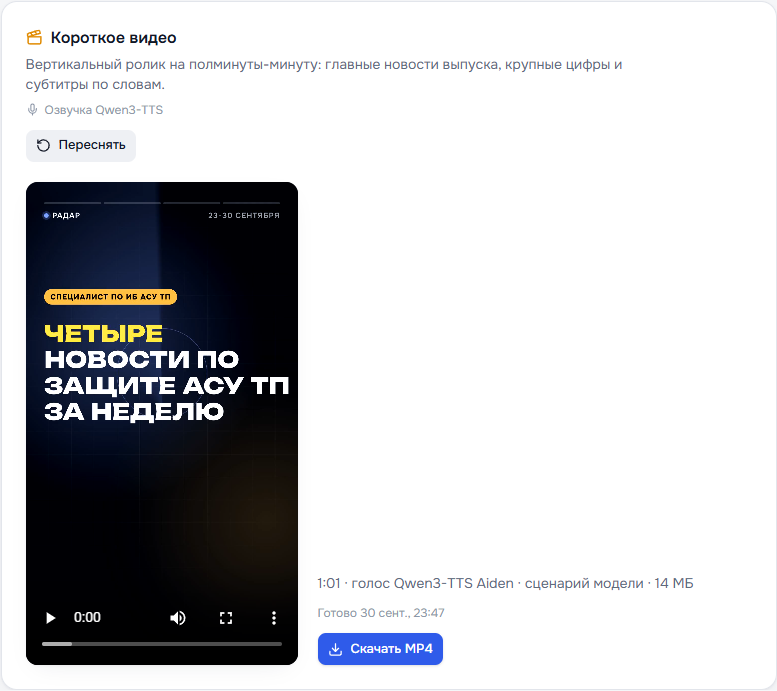
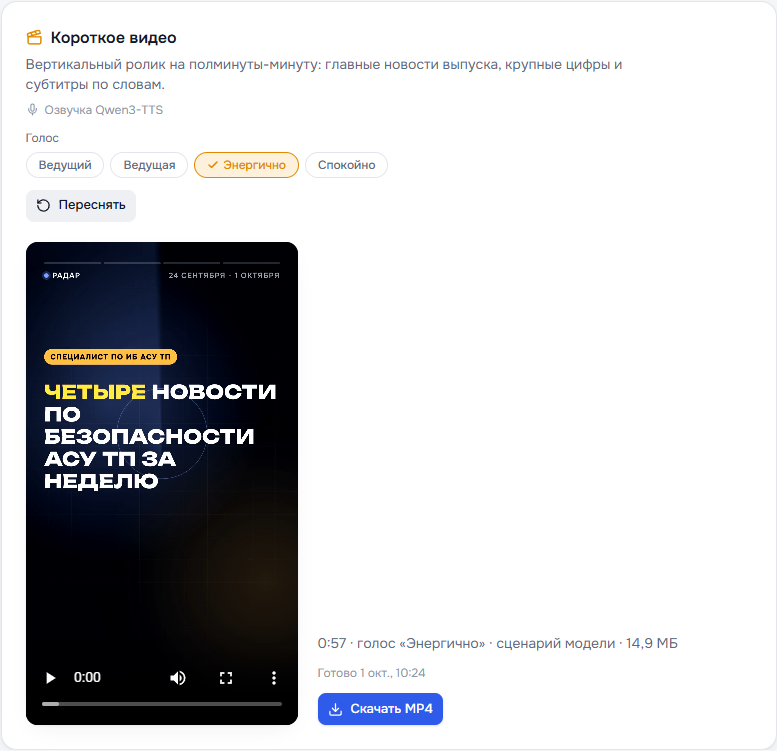
docs: voices, the line check and the news cards in the video

Changed region(s): [[0.0309, 0.0304, 0.8031, 0.6686], [0.4015, 0.8205, 0.8958, 0.9725], [0.0309, 0.8813, 0.3707, 0.9725]]

diff --git a/docs/DECISIONS.md b/docs/DECISIONS.md
@@ -258,9 +258,64 @@ Qwen3-TTS выбран по просьбе заказчика прототипа
 
 Генерация идёт быстрее реального времени: около 0,7 секунды на секунду звука, без flash-attn. Сервис в работе на той же карте: первый запрос с загрузкой модели 38,5 с, следующий 17,3 с на 23,6 с речи. Модель выгружается через 10 минут без запросов и не держит видеопамять, пока роликов не заказывают.
 
+### Срыв в несуществующий язык
+
+В одном из первых роликов голос на первой новости «заговорил по-китайски». На деле хуже: я разрезал дорожку на куски по три секунды и прогнал через распознавание с определением языка. Все 18 секунд новости про CISA и Toptech распознаватель слышал то как болгарский, то как португальский, то как хинди, текста в этом не было. Соседние строки того же ролика распознались русскими с вероятностью 1,00.
+
+Воспроизвести срыв не удалось: та же строка 11 раз подряд, в пакете со всеми строками ролика и отдельно, ни разу не сломалась, CER от 0,03 до 0,15. Значит, это случайность сэмплинга, а не трудная фраза, и лечится она не подбором слов, а проверкой результата. Теперь сервис голоса после генерации слушает каждую строку whisper base на процессоре и сравнивает с текстом. Если доля ошибочных символов выше 0,45, строка генерируется заново, до двух раз, и остаётся лучший дубль.
+
+Сравниваются только русские слова. Латиница и числа распознаются как придётся: то буквами, то цифрами, то русской транскрипцией, и честная строка про CISA и версию 7.8 набирала бы ошибки на ровном месте. Поэтому каждый такой кусок текста превращается в подстановку, которая принимает любое услышанное, а строка, где русских букв меньше двенадцати, не проверяется вовсе. На том самом ролике сломанная строка дала 0,70, хорошие от 0,00 до 0,29 (худшая из них - «4», услышанное вместо «четыре»), проверка занимает около секунды на строку.
+
+Проверка только улучшает озвучку и не может её сорвать. Если whisper не загрузился или упал, строки остаются как сгенерированы. На все перегенерации одного запроса отведено 90 секунд, чтобы ролик с несколькими плохими строками уложился в тайм-аут воркера (300 с).
+
+### Голоса на выбор
+
+Встроенные голоса модели CustomVoice - носители китайского, английского, японского и корейского, русский для них чужой. Модель Base умеет другое: говорить голосом из короткого образца, продолжая его и по тембру, и по языку, и по манере. Образцы я сделал моделью VoiceDesign 1.7B по текстовому описанию, по три дубля на голос, и оставил самый чистый по распознаванию. Голоса синтетические, ни один не записан с живого человека; скрипт, который их делает, лежит в `tts/scripts/design_voices.py`.
+
+Проверка та же, что для встроенных голосов, но на шести строках того самого ролика, где случился срыв: CISA, Toptech, версии 7.6.3 и 7.8, NIS2, DTLS, Citrix, Modbus. Каждый голос читал их дважды, распознавание whisper large-v3-turbo с определением языка, ошибка считается по символам (CER):
+
+| Голос | CER, среднее двух прогонов | Худшая строка | Строк, распознанных как русские | Длина звука, с | Время генерации к длительности |
+|---|---|---|---|---|---|
+| «Спокойно» (analyst), клон | 0,016 | 0,063 | 12 из 12 | 55,1-56,6 | 0,75-0,77 |
+| «Энергично» (blogger), клон | 0,019 | 0,063 | 12 из 12 | 51,4-52,6 | 0,84-0,95 |
+| «Ведущий» (anchor), клон | 0,022 | 0,107 | 12 из 12 | 50,5-51,7 | 0,85-0,88 |
+| Aiden, встроенный | 0,025 | 0,089 | 12 из 12 | 55,5-56,8 | 0,80-0,81 |
+| «Ведущая» (presenter), клон | 0,027 | 0,088 | 12 из 12 | 49,4-51,6 | 0,94-1,32 |
+
+По ошибкам клоны не лучше и не хуже Aiden: разница меньше разброса между двумя прогонами одного голоса. Срыва не было ни у кого, все 60 строк распознаны как русские. Так что клоны взяты не ради точности, её держит проверка строк, а ради выбора: четыре голоса с разной манерой вместо одного, и у всех русский образец, а не иностранный голос, читающий по-русски. Голосом по умолчанию оставлен «Ведущий». Время 1,32 у «Ведущей» во втором прогоне выбивается из ряда, в первом было 0,94; причину я не искал.
+
+За клон платят памятью. `qwen-tts` декодирует образец голоса вместе с каждой строкой, чтобы стык звучал ровно, и декодеру достаются 12-16 секунд образца сверх самой строки. Шесть строк того же ролика на RTX 5070, каждый размер пакета в чистом процессе:
+
+| Строк в пакете | Клон, пик памяти | Клон, время к длительности | Aiden, пик памяти | Aiden, время к длительности |
+|---|---|---|---|---|
+| 6 | 6,20 ГБ | 0,70 | 4,25 ГБ | 0,69 |
+| 3 | 4,13 ГБ | 1,23 | 3,50 ГБ | 1,35 |
+| 2 | 3,44 ГБ | 1,92 | 2,73 ГБ | 1,85 |
+| 1 | 2,75 ГБ | 2,80 | 2,48 ГБ | 2,77 |
+
+Пакет в четыре раза быстрее строк по одной, поэтому сервис сначала пробует все строки разом. Если памяти не хватает, потому что рядом лежит языковая модель выпусков, пакет делится пополам, потом ещё раз; раньше сервис в этом случае сразу переходил на строки по одной. После каждого запроса память пакета возвращается карте, а распределитель PyTorch работает с `expandable_segments`, чтобы пакеты разного размера не дробили её на куски.
+
 ### Разметка слов по времени
 
 Субтитры подсвечивают слово, которое звучит, значит нужно время каждого слова. Можно было прогнать готовую речь через распознаватель с метками слов, но это ещё одна модель на 1,5 ГБ и ещё десятки секунд. Сделано проще: сервис голоса сообщает, где на дорожке каждая строка, а внутри строки время делится по слогам. Aiden произносит один слог за 182-188 мс вместе с паузами по краям строк, и темп внутри строки почти ровный. Субтитры показывают страницу в две-четыре слова примерно на секунду, поэтому промах на слог не виден. Цифры считаются по два слога, аббревиатуры до шести букв - по буквам, после запятой и точки добавляется пауза.
+
+### Карточка новости и QR-код
+
+На карточке новости теперь рисунок по её главному числу: шкала CVSS со стрелкой и цветом по уровню опасности, кольцо для процентов, счётчик для чисел и сумм, прорисовка иконки для остального. Рядом по одному отмечаются два-три коротких факта, ниже источник, дата и QR-код статьи. Цвет и иконка карточки зависят от вида новости: уязвимость, атака, инцидент, регулятор, релиз, исследование, энергетика. Вид назначает модель, без неё его угадывают по словам новости: сначала по заголовку, потом по выжимке. Название темы не учитывается, иначе все новости темы «Уязвимости АСУ ТП» получили бы одну иконку. Корни слов ищутся с границами, чтобы «опрос» не находился в «вопросе», «закон» в «закончил», а «электр» в «электронной почте».
+
+Факты для экрана модель предлагает сама, и каждый проверяется: в нём нет чисел, которых нет в новости, и большинство его слов (по первым пяти буквам, чтобы не мешали окончания) встречаются в тексте новости. Факт длиннее 48 знаков отбрасывается, а не обрезается многоточием.
+
+QR-код должен читаться камерой с экрана другого телефона, а адреса статей бывают длинными. Адрес в 168 знаков даёт код из 49-53 модулей. Я проверял, при каком размере он читается из отрисованного кадра, уменьшенного в разы: так камера видит чужой экран. Первое, что помогло, - убрать метки отслеживания (`utm_*`, `fbclid` и подобные), их в ссылках из лент много. Остальная часть запроса остаётся байт в байт, чтобы не сломать ссылку с параметром в cp1251 или флагом без значения. Якорь остаётся, только если это маршрут одностраничного сайта (`#/news/15`, `#!`). Логин и пароль, если лента вписала их в адрес, в код не попадают.
+
+Второе - целое число пикселей на модуль и белое поле в четыре модуля вокруг, как требует стандарт. Код не шире 250 пикселей, модуль от 4 до 8 пикселей. Если модулю достаётся меньше четырёх, кода на карточке нет, поэтому адреса длиннее 200 знаков в код не попадают. Проверка на кадрах из Remotion, уменьшенных в разы, как камера видит чужой экран:
+
+| Адрес | Модулей | Пикселей на модуль | ZXing читает до масштаба |
+|---|---|---|---|
+| 34 знака | 29 | 8 | 0,3 (324 на 576) |
+| 148 знаков | 49 | 5 | 0,3 |
+| 200 знаков | 57 | 4 | 0,35 |
+
+Первую версию, 5,5 пикселя на модуль без белого поля, я проверял до 0,4, меньше не пробовал. Детектор OpenCV на таких кадрах местами ошибался уже на 0,75; ZXing ближе к тому, что стоит в приложениях камер, поэтому ориентир по нему.
 
 ### Рендер
 
@@ -279,7 +334,9 @@ Qwen3-TTS выбран по просьбе заказчика прототипа
 
 Ролики в собранном стеке с `qwen3.5:9b` и голосом в контейнере на видеокарте: ролик на 61,1 с (1854 кадра) рендерится 121,9 с, от нажатия кнопки до плеера на странице проходит 174 с, файл весит 14 МБ. Голос в контейнере быстрее, чем на хосте: 0,59-0,62 секунды генерации на секунду речи против 0,73 под Windows.
 
-Chrome в Remotion запускается с `--no-sandbox`, так делает сама библиотека. Поэтому изоляция держится на контейнере: процесс без root, файловая система только на чтение, все capabilities сняты, лимиты памяти и процессов, сеть `rendering` без выхода наружу. Текст из лент попадает в кадр только как текст React-элементов: ни HTML, ни стилей, ни ссылок из данных в сценах нет, адрес звука сервис ставит сам поверх того, что прислали.
+Вторая версия, с клоном голоса, проверкой строк и новыми карточками, на том же стеке: три ролика на 57-64 с от кнопки до плеера заняли 192-215 с, файлы 14,9-16,5 МБ. Пакет из шести строк клона уместился в память рядом с `qwen3.5:9b`, делить его не пришлось, перегенераций строк не было ни одной.
+
+Chrome в Remotion запускается с `--no-sandbox`, так делает сама библиотека. Поэтому изоляция держится на контейнере: процесс без root, файловая система только на чтение, все capabilities сняты, лимиты памяти и процессов, сеть `rendering` без выхода наружу. Текст из лент попадает в кадр только как текст React-элементов: ни HTML, ни стилей из данных в сценах нет. Адрес статьи попадает в кадр только рисунком QR-кода, собранным из квадратов, и схема props принимает лишь адреса `http` и `https`; адрес звука сервис ставит сам поверх того, что прислали.
 
 ## Что не сработало
 

diff --git a/README.md b/README.md
@@ -41,7 +41,7 @@ docker compose -f docker-compose.yml -f docker-compose.gpu.yml \
 
 Образ рендера занимает 1,3 ГБ: Node 24, Chrome Headless Shell и шрифты. Образ голоса тяжёлый: 14,8 ГБ на диске и 5,4 ГБ при скачивании. Из них 4,4 ГБ - PyTorch с библиотеками CUDA 13, 2,4 ГБ - сама модель, она уже лежит в образе. Его сборка заняла у меня около часа, большую часть времени Docker сжимал слои.
 
-![Короткое видео: заход, карточка с CVE, карточка с оценкой CVSS](docs/screenshots/shorts-frames.png)
+![Короткое видео: заход с оглавлением, карточка с CVE и QR-кодом статьи, кольцо процентов, шкала CVSS](docs/screenshots/shorts-frames.png)
 
 Администратор может менять каталог источников. Роль выдаётся с сервера, а не по адресу почты при регистрации:
 
@@ -65,7 +65,7 @@ uv run scripts/smoke.py            # или: uv run scripts/smoke.py http://host
 4. Кнопки «Markdown» и «DOCX» в шапке выпуска скачивают дайджест.
 5. В разделе «Интересы» добавьте ключевое слово, сдвиньте порог или удалите интерес. Панель справа сразу покажет, какие публикации появились и какие выпали. «Сохранить и собрать» строит новый выпуск, а раздел «Сравнение» кладёт два выпуска рядом: что появилось, что ушло, как изменились оценки.
 6. Выйдите и зарегистрируйтесь. На следующем шаге перетащите резюме из `examples/resumes/`: через 10-30 секунд появятся должность, навыки и предложенные темы новостей. Оставьте нужные и нажмите «Создать профиль и открыть ленту».
-7. Под шапкой готового выпуска нажмите «Сделать видео». Карточка покажет этапы: сценарий, озвучка, монтаж. Примерно через три минуты появится вертикальный ролик: заход, по карточке на новость с крупной цифрой, субтитры, в которых подсвечено звучащее слово. Его можно посмотреть на странице и скачать в MP4.
+7. Под шапкой готового выпуска выберите голос («Ведущий», «Ведущая», «Энергично», «Спокойно») и нажмите «Сделать видео». Карточка покажет этапы: сценарий, озвучка, монтаж. Примерно через три минуты появится вертикальный ролик: заход с оглавлением, по карточке на новость с рисунком по главному числу (шкала CVSS, кольцо процентов, счётчик), фактами, которые отмечаются по ходу рассказа, и QR-кодом статьи, субтитры с подсветкой звучащего слова. Ролик можно посмотреть на странице и скачать в MP4.
 8. В ленте «Для вас» у каждой статьи видны причины («Интерес «...»», «Из резюме: SCADA, МЭК 61850», «Похоже на ..., которое вы отметили») и разбор оценки по частям. Поставьте несколько лайков и дизлайков и нажмите «Пересобрать ленту»: справа появятся выученные темы и темы, которые лента показывает реже. Те же оценки сдвигают баллы в следующих дайджестах.
 
 | Регистрация | Профиль из резюме | Персональная лента |
@@ -78,7 +78,7 @@ uv run scripts/smoke.py            # или: uv run scripts/smoke.py http://host
 
 | Видео по выпуску | Монтаж, телефон | Готовый ролик, телефон |
 |---|---|---|
-| ![Карточка с роликом и кнопкой скачивания](docs/screenshots/shorts-panel.png) | ![Этапы: сценарий, озвучка, монтаж](docs/screenshots/shorts-progress.png) | ![Ролик в тёмной теме на экране 390 px](docs/screenshots/shorts-mobile.png) |
+| ![Выбор голоса, ролик и кнопка скачивания](docs/screenshots/shorts-panel.png) | ![Этапы: сценарий, озвучка, монтаж](docs/screenshots/shorts-progress.png) | ![Ролик в тёмной теме на экране 390 px](docs/screenshots/shorts-mobile.png) |
 
 ## Что реализовано
 
@@ -95,7 +95,7 @@ uv run scripts/smoke.py            # или: uv run scripts/smoke.py http://host
 - аккаунты: вход по паролю, сессия в httpOnly-cookie, у каждого читателя свои профили, выпуски и оценки, временные гостевые аккаунты;
 - резюме при регистрации: разбор через docling или встроенный разборщик, удаление контактов до анализа, должность, навыки и темы от модели или по таблице направлений, файл не хранится после разбора;
 - персональная лента: интересы, резюме, темы, выученные по лайкам и сохранениям, темы, которых читатель избегает, предпочтения по источникам, «нравится коллегам с похожим профилем», место для статей вне привычных тем, объяснение каждой позиции;
-- короткое видео по выпуску: сценарий от модели с проверкой цифр по тексту новости, озвучка Qwen3-TTS, субтитры по словам, рендер на Remotion, без голоса - ролик с субтитрами;
+- короткое видео по выпуску: сценарий от модели с проверкой цифр по тексту новости, четыре голоса Qwen3-TTS на выбор с проверкой каждой строки распознаванием, рисунок по главному числу новости, QR-код статьи, субтитры по словам, рендер на Remotion, без голоса - ролик с субтитрами;
 - перевод заголовков и выжимок англоязычных источников, строка «почему важно» под роль, прозрачность отбора, работа без модели, возобновление сборки после сбоя.
 
 ## Два режима
@@ -141,7 +141,7 @@ flowchart LR
     wm --> ollama
 ```
 
-Бэкенд: Python 3.14, FastAPI, SQLAlchemy 2.1, LangGraph 1.2, LangChain, taskiq, pwdlib (Argon2). Разбор документов: docling 2.131 на Python 3.13 в отдельном контейнере. Видео: Remotion 4.0.531 на Node 24, голос Qwen3-TTS 12Hz 0.6B (`qwen-tts` 0.1.1, PyTorch 2.14 с CUDA 13) на Python 3.13. Хранилище: PostgreSQL 18 с pgvector 0.8.6 за PgBouncer, Valkey 9.1. Фронтенд: Vite 8, React 19, TypeScript 6, Tailwind CSS 4, Motion 13. Версии библиотек - последние на 30 сентября 2026 года, они зафиксированы в `backend/uv.lock`, `docparser/uv.lock`, `tts/uv.lock`, `shorts/package-lock.json` и `frontend/package-lock.json`.
+Бэкенд: Python 3.14, FastAPI, SQLAlchemy 2.1, LangGraph 1.2, LangChain, taskiq, pwdlib (Argon2). Разбор документов: docling 2.131 на Python 3.13 в отдельном контейнере. Видео: Remotion 4.0.531 на Node 24, голос Qwen3-TTS 12Hz 0.6B Base (`qwen-tts` 0.1.1, PyTorch 2.14 с CUDA 13) и проверка строк faster-whisper 1.2.1 на Python 3.13, QR-коды `qrcode` 1.5.4, иконки `lucide-react` 1.49. Хранилище: PostgreSQL 18 с pgvector 0.8.6 за PgBouncer, Valkey 9.1. Фронтенд: Vite 8, React 19, TypeScript 6, Tailwind CSS 4, Motion 13. Версии библиотек - последние на 30 сентября 2026 года, они зафиксированы в `backend/uv.lock`, `docparser/uv.lock`, `tts/uv.lock`, `shorts/package-lock.json` и `frontend/package-lock.json`.
 
 Сборка выпуска идёт как граф LangGraph из девяти узлов с чекпоинтами в PostgreSQL. Оценка кандидатов и написание выжимок расходятся веером по одной задаче на статью, а каждый ответ модели кешируется, поэтому сборка, прерванная сбоем, продолжается с того же шага и не платит за уже полученные ответы.
 
@@ -159,12 +159,12 @@ docker compose up -d --scale api=4 --scale worker-ingest=2 --scale worker-digest
 
 | Проверка | Результат |
 |---|---|
-| Тесты бэкенда, `uv run pytest` | 122 теста; 14 из них идут через HTTP на отдельной базе PostgreSQL, ещё один требует Valkey, без них они пропускаются |
+| Тесты бэкенда, `uv run pytest` | 157 тестов; 16 из них идут через HTTP на отдельной базе PostgreSQL, ещё один требует Valkey, без них они пропускаются |
 | Линтер и типы бэкенда, `ruff` и `mypy --strict` | без замечаний |
-| Фронтенд: `tsc`, `oxlint`, `vitest` | без замечаний, 8 тестов |
-| Сервис рендера и сервис голоса | `tsc` и 8 тестов `node --test`; `ruff`, `mypy --strict` и 5 тестов `pytest` |
+| Фронтенд: `tsc`, `oxlint`, `vitest` | без замечаний, 11 тестов |
+| Сервис рендера и сервис голоса | `tsc` и 15 тестов `node --test`; `ruff`, `mypy --strict` и 17 тестов `pytest` |
 | Сквозной сценарий `scripts/smoke.py` через шлюз | проходит в автономном режиме со встроенным разбором резюме и в режиме с моделями, docling и видео |
-| Видео в браузере, светлая тема на компьютере и тёмная на телефоне | от кнопки до плеера 174 с, ролик на 61 с с голосом, 14 МБ; перемотка работает через Range, ошибок в консоли нет; на экране 390 px карточка в одну колонку без горизонтальной прокрутки |
+| Видео в браузере, светлая тема на компьютере и тёмная на телефоне | с выбранным голосом «Энергично»: от кнопки до плеера 192 с на компьютере и 195 с на телефоне, ролики на 57 и 61 с, 14,9 и 15,8 МБ; перемотка работает через Range, ошибок в консоли нет; на экране 390 px карточка в одну колонку без горизонтальной прокрутки. Дорожка первого ролика, нарезанная по 8 секунд, распознаётся как русская с вероятностью 0,97-1,00 |
 | Видео без голоса | когда сервис голоса отказал, ролик собрался без звука с субтитрами в темпе чтения, в карточке написано «без озвучки» |
 | Чистый запуск с `.env.example` | стек поднялся, сценарий прошёл, в том числе разбор резюме в процессе, который убивается по таймауту |
 | Доступ к чужим данным | профиль, выпуск, экспорт, сравнение, поток прогресса и удаление чужого выпуска отвечают 404; изменение каталога не администратором - 403; запрос с чужого сайта с верной cookie - 403 |
@@ -203,6 +203,8 @@ docker compose up -d --scale api=4 --scale worker-ingest=2 --scale worker-digest
 - Remotion бесплатен для частных лиц, команд до трёх человек и оценки; компании для работы нужна платная лицензия (DECISIONS.md). Chrome внутри рендера работает без собственной песочницы, изоляцию даёт контейнер.
 - Время слов в субтитрах рассчитывается по слогам внутри фразы, а не распознаётся по звуку. На странице субтитров из двух-четырёх слов расхождение не видно, но на медленно сказанном длинном слове подсветка может опередить голос.
 - Голос проверен только на видеокарте. Без неё сервис запустится на процессоре, но скорость там не измерялась; без сервиса голоса ролики получаются беззвучными. Готовые ролики хранятся, пока жив выпуск, срока хранения нет.
+- Голоса - четыре синтетических образца, сделанных моделью по описанию; свой голос добавляется файлом в `tts/voices/`. Проверка строк ловит речь, которая не совпала с текстом, но не оценивает интонацию, и неудачное ударение она не заметит.
+- QR-код ведёт на статью в интернете, на сайт издания. Если источник закрыт или статья снята, код откроет ошибку издания. Адреса длиннее 200 знаков в код не кладутся: модуль кода стал бы мельче четырёх пикселей, и камера его не прочтёт.
 
 ## Разработка
 

diff --git a/docs/ARCHITECTURE.md b/docs/ARCHITECTURE.md
@@ -59,7 +59,7 @@ flowchart LR
 | `docparser` | docling: документ на входе, Markdown на выходе; профиль `docling` | реплики за DNS-именем |
 | `worker-media` | сценарий, голос и монтаж короткого видео, запись MP4 в том `media`; профиль `video` | один ролик за раз на воркер |
 | `shorts` | Remotion 4 и Chrome Headless Shell: props и WAV на входе, MP4 на выходе; профиль `video` | реплики за DNS-именем, упирается в процессор |
-| `tts` | Qwen3-TTS 0.6B: строки на входе, WAV и разметка строк на выходе; профиль `voice` | по экземпляру на GPU |
+| `tts` | Qwen3-TTS 0.6B Base голосами из `tts/voices/`, каждая строка проверяется whisper: строки на входе, WAV и разметка строк на выходе; профиль `voice` | по экземпляру на GPU |
 | `scheduler` | раз в 15 минут ставит задачу опроса, раз в 10 минут чистит зависшие выпуски и резюме, истёкшие сессии и гостевые аккаунты старше суток | один экземпляр |
 | `pgbouncer` | пул соединений в режиме transaction | не нужно |
 | `postgres` | статьи, векторы, пользователи, сессии, профили, выпуски, оценки читателей, чекпоинты графа | вертикально, реплики на чтение |
@@ -192,10 +192,10 @@ flowchart LR
 ```
 
 1. Отбор. В ролик идут до четырёх записей: сначала сильнейшая запись каждой темы, затем сильнейшие из остальных, по убыванию оценки.
-2. Сценарий. Модель по JSON-схеме пишет заход, для каждой новости тип («Уязвимость», «Регулятор»), заголовок для экрана до 90 знаков, крупный факт и одну-две фразы для диктора, и финальную фразу. Источник у каждой карточки берётся из выпуска, а не из ответа модели. Факт показывается, только если каждое его число есть в тексте самой новости: «CVSS 9.1» при «9.8» в статье выбрасывается. Без модели сценарий собирается из заголовков и первых фраз выжимок, а факт ищется шаблонами: CVE, оценка CVSS (номер версии вроде «v3.1» оценкой не считается), проценты, суммы.
-3. Голос. Сервис `tts` озвучивает все строки одним пакетом, обрезает тишину по краям каждой строки, выравнивает громкость и склеивает строки с паузой 380 мс. В ответе WAV и место каждой строки на дорожке в миллисекундах. Модель загружается при первом запросе и выгружается через 10 минут простоя: видеокарта общая с языковой моделью выпусков.
+2. Сценарий. Модель по JSON-схеме пишет заход, для каждой новости тип («Уязвимость», «Регулятор»), заголовок для экрана до 90 знаков, крупный факт, два-три коротких факта списком, вид новости для рисунка и одну-две фразы для диктора, и финальную фразу. Источник, адрес статьи для QR-кода и дата у каждой карточки берутся из выпуска, а не из ответа модели; из адреса убираются метки отслеживания. Факт показывается, только если каждое его число есть в тексте самой новости: «CVSS 9.1» при «9.8» в статье выбрасывается. Строки модели со ссылкой, почтой, телефоном или чужим числом заменяются текстом выпуска. Без модели сценарий собирается из заголовков и выжимок, факт ищется шаблонами (CVE, оценка CVSS, проценты, суммы), а вид новости угадывается по словам.
+3. Голос. Читатель выбирает голос из списка сервиса `tts`: модель Qwen3-TTS 0.6B Base говорит голосами из `tts/voices/`, синтетическими образцами носителей русского языка. Сервис озвучивает все строки одним пакетом, потом whisper base на процессоре слушает каждую и сравнивает с текстом; строка, которая сказала не то, генерируется заново, до двух раз. Дальше обрезается тишина по краям строк, выравнивается громкость, строки склеиваются с паузой 380 мс. В ответе WAV и место каждой строки на дорожке в миллисекундах. Модель загружается при первом запросе и выгружается через 10 минут простоя: видеокарта общая с языковой моделью выпусков. Список голосов медиа-воркер кладёт в Valkey при старте и раз в 10 минут, а `api` отдаёт его в `meta`: сам `api` до сервиса голоса не достаёт.
 4. Раскладка. Внутри строки время делится между словами по слогам, с добавкой после запятых и точек; цифры считаются по два слога, аббревиатуры вроде «ФСТЭК» и «CVE» - по буквам. Карточки сменяются посередине паузы между строками, поэтому картинка не забегает вперёд голоса.
-5. Монтаж. `shorts` - сервис на Node 24 с Remotion 4. Он проверяет props по схеме zod (длины строк, число слов, порядок отметок времени, не длиннее двух минут), держит WAV в памяти и отдаёт его своему же Chrome по случайному адресу, собирает кадры и кодирует H.264 с CRF 23. Шрифты Unbounded и Onest лежат в образе, в сеть рендер не ходит.
+5. Монтаж. `shorts` - сервис на Node 24 с Remotion 4. Он проверяет props по схеме zod (длины строк, число слов, порядок отметок времени, не длиннее двух минут), держит WAV в памяти и отдаёт его своему же Chrome по случайному адресу, собирает кадры и кодирует H.264 с CRF 23. В кадре: заход с оглавлением ролика, карточки новостей с рисунком по главному числу (шкала CVSS, кольцо процентов, счётчик), фактами и QR-кодом статьи, финал. Шрифты Unbounded и Onest лежат в образе, в сеть рендер не ходит.
 6. Файл. Воркер пишет MP4 в том `media` через временный файл и переименование, `api` отдаёт его владельцу с поддержкой Range, чтобы работала перемотка. Файлы удалённых выпусков и гостей удаляет задача на том же воркере: только у него том открыт на запись.
 
 Без сервиса `tts` получается ролик без звука с теми же субтитрами, в темпе чтения, а не речи. Если голос отказал посреди работы, ролик тоже собирается без звука, а не падает. Повторный заказ по тому же выпуску заменяет предыдущий ролик.
